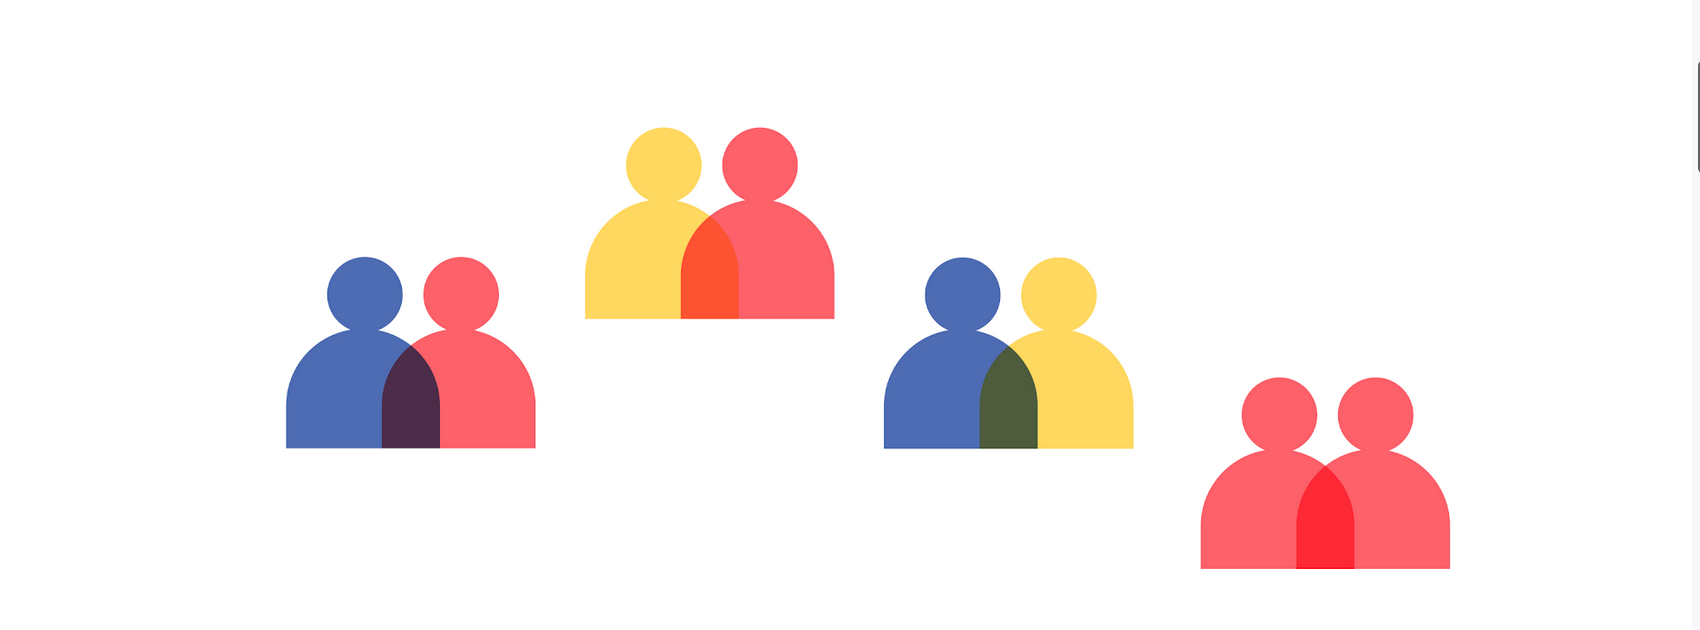
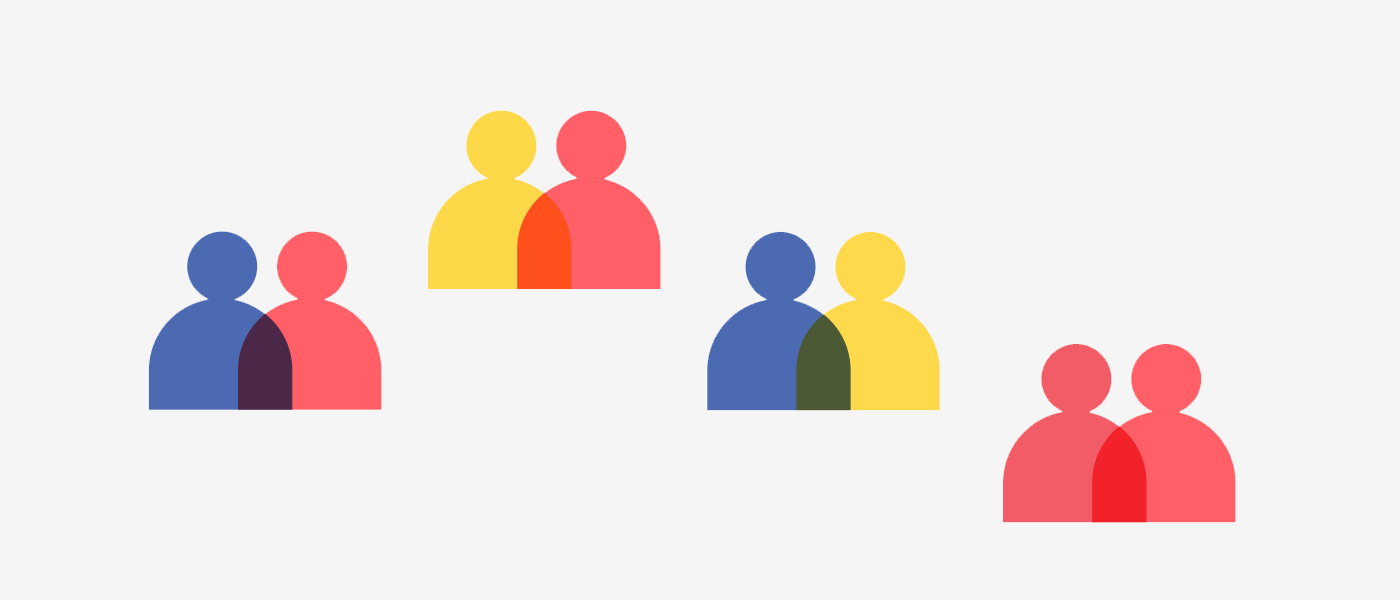
Trustping: images use transparent bg + wording

Changed region(s): [[0.0921, 0.18, 0.4914, 0.72], [0.7064, 0.57, 0.8907, 0.93], [0.4914, 0.39, 0.6757, 0.72]]

diff --git a/_projects/trustping.md b/_projects/trustping.md
@@ -13,12 +13,13 @@ brief: "Wir ermöglichen einen geschützten Austausch für Menschen mit Krebserk
 summary: "Mit der App Trustping finden Menschen mit Krebs gezielt Gesprächspartner*innen, ohne sensible Informationen aus der Hand zu geben."
 ---
 
-Eine Krebsdiagnose ist ein Schock, verbunden mit einer großen Verunsicherung.  
+Eine Krebsdiagnose ist ein Schock, verbunden mit einer großen Verunsicherung.
 Unsere Vision mit Trustping ist es, dass Menschen auf der dringenden Suche nach Austausch und Unterstützung, diese einfach finden können, ohne dabei ihre persönlichen Daten zu veröffentlichen und so ihre eigene Privatsphäre verletzen zu müssen. Im Moment findet dieser Austausch hauptsächlich in öffentlichen Internetforen oder Facebookgruppen statt. Trustping bietet eine sichere Alternative.
+
+![Trustping](/assets/images/project_images/Trustping/tp01.png)
 
 In Zeiten von COVID hat unser Anliegen eine neue Dringlichkeit erfahren. Menschen mit Krebserkrankungen sind besonders gefährdet, nicht nur durch eine potenzielle Ansteckung mit dem Virus, sondern auch durch eine Isolation mit ihrer Krankheitserfahrung. Trustping wird also wichtiger denn je.
 
-![Trustping](/assets/images/project_images/Trustping/tp02.png)
 
 Trustping ist eine App fürs Smartphone. Zusätzlich zu einem klassischen Messenger bietet sie eine Match-Funktionalität »Ping«, die es ermöglicht über konkrete Fragen und Themen geschützt zueinander zu finden und sich auszutauschen. Die Transparenz der App und des Umgangs mit sämtlichen Daten sowie der Schutz aller persönlicher Kommunikation sind das Herz von Trustping.
 
@@ -32,28 +33,15 @@ In einer intensiven Recherche haben wir versucht, möglichst viel über unser Zi
 
 Gruppen von Menschen, die Trustping nutzen und für die
 
-1. der soziale Kontakt und Austausch am wichtigsten ist
-2. gezielte Informationen am wichtigsten sind
+1. der soziale Kontakt und Austausch am wichtigsten ist (chatten, sich gegenseitig aufmuntern, sich mental unterstützen, eine Gemeinschaft bilden),
+2. gezielte Informationen am wichtigsten sind (Kliniken & Rehaeinrichtungen, Behandlungen, Nebenwirkungen, Unterstützenden Methoden, psychologische Unterstützung, sozialrechtlichen Anlaufstellen, Ärzt\*innen).
 
-Trustping ausprobieren,  
-Weil ich mich einsam fühle (1)  
-chatten  
-sich gegenseitig aufmuntern  
-sich mental unterstützen  
-eine Gemeinschaft bilden
-
-Um persönliche Erfahrungen anderer kennen zu lernen (2)   
-Kliniken & Rehaeinrichtungen  
-Behandlungen  
-Nebenwirkungen  
-Unterstützenden Methoden  
-Psychologischer Unterstützung  
-sozialrechtlichen Anlaufstellen  
-Ärzt\*innen
 
 ## Wer seid ihr und was habt ihr in den letzten sechs Monaten gemacht?
 
 Anfang März startet unsere Förderung durch den Prototype Fund kurz darauf tritt in unserem Land der größte Ausnahmezustand der Nachkriegszeit in Kraft. Die Förderphase hatten wir uns wirklich anders vorgestellt! Schulen und Kitas bleiben geschlossen und machen für uns Eltern den Alltag zur Kraftprobe. Innerhalb von Tagen verlagern sich bundesweit die Büroplätze in die heimischen Wohnungen, wo schon die Kinder und Partner\*innen warten und quasi das gesamte soziale Leben in den virtuellen Raum.
+
+![Trustping](/assets/images/project_images/Trustping/tp02.png)
 
 Für die meisten Menschen war COVID-19 in diesen Wochen und Monaten die größte Herausforderung. Aber auch in den Wochen, wo fast jede Nachricht eine Corona-Nachricht war, erkranken Menschen neu an Krebs, allein in Deutschland etwas über 500.000 im Jahr. Durchschnittlich 1300 Menschen täglich werden abrupt aus ihrem Alltag gerissen und mit einer lebensverändernden Diagnose konfrontiert.
 Für diese Menschen entwickeln wir Trustping.
@@ -129,7 +117,7 @@ Wenn es um Gesundheitsdaten geht, spielt das Potenzial für Forschung immer auch
 
 ### Nachhaltigkeit und Finanzierung
 
-Wir machen Trustping aus Leidenschaft, aber wir sind nicht naiv. Um eine nachhaltige Ausarbeitung, Weiterentwicklung und einen dauerhaften Betrieb einer App zu sichern, braucht es Ressourcen. Wir werden uns um eine Anschlussförderung bemühen und haben einige Überlegungen zur Produktisierung von Trustping angestellt. Wichtigstes Kriterium hierbei war für uns, keine kommerzielle Verwendung irgendwelcher Daten zu erwägen. Das Thema kam auch auf, als wir in Verhandlung mit dem Universitätsklinikum Freiburg über die Teilnahme an der Pilotphase standen. Es ist im Moment nichts entschieden, aber einige Ideen werden wir abwägen und evaluieren. 
+Wir machen Trustping aus Leidenschaft, aber wir sind nicht naiv. Um eine nachhaltige Ausarbeitung, Weiterentwicklung und einen dauerhaften Betrieb einer App zu sichern, braucht es Ressourcen. Wir werden uns um eine Anschlussförderung bemühen und haben einige Überlegungen zur Produktisierung von Trustping angestellt. Wichtigstes Kriterium hierbei war für uns, keine kommerzielle Verwendung irgendwelcher Daten zu erwägen. Das Thema kam auch auf, als wir in Verhandlung mit dem Universitätsklinikum Freiburg über die Teilnahme an der Pilotphase standen. Es ist im Moment nichts entschieden, aber einige Ideen werden wir abwägen und evaluieren.
 
 ## Disclaimer
 
